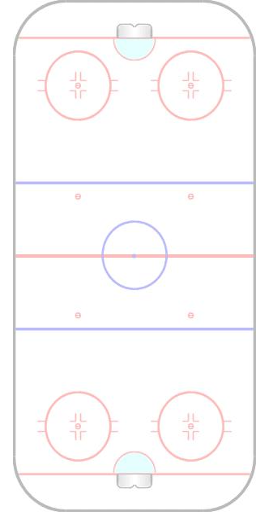
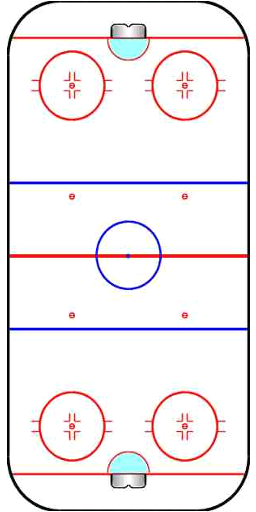
Changed texture

Changed region(s): [[0.0, 0.0, 1.0, 1.0]]

diff --git a/cube.h b/cube.h
@@ -12,14 +12,14 @@ const int num_vertices = 16;
 
 GLfloat vertices[] = {
 //rink
-	 0.00f,  0.00f, -2.0f,  //0      
-	 2.00f,  0.00f, -2.0f,  //1       
-	 0.00f,  0.25f, -2.0f,  //2     Top Left	0,1
-	 2.00f,  0.25f, -2.0f,  //3     Top Right	1,1
-	 0.00f,  0.00f,  2.0f,  //4     
-	 2.00f,  0.00f,  2.0f,  //5       
-	 0.00f,  0.25f,  2.0f,  //6     Bot Left	0,0
-	 2.00f,  0.25f,  2.0f,  //7     Bot Right	1,0
+	 0.00f,  0.00f, -2.0f,  //0 bbl    (Key:bottom/top.back/front.left/right)  
+	 2.00f,  0.00f, -2.0f,  //1 bbr      
+	 0.00f,  0.25f, -2.0f,  //2 tbr    Top Left	0,1
+	 2.00f,  0.25f, -2.0f,  //3 tbl    Top Right	1,1
+	 0.00f,  0.00f,  2.0f,  //4 bfl    
+	 2.00f,  0.00f,  2.0f,  //5 bfr      
+	 0.00f,  0.25f,  2.0f,  //6 tfl    Bot Left	0,0
+	 2.00f,  0.25f,  2.0f,  //7 tfr    Bot Right	1,0
 
 //puck
 	 1.00f,  0.25f,  0.0f,         
@@ -124,14 +124,14 @@ GLuint indices[] = {
 GLfloat textures[] = {
 	//rink
 	
-	0.0,0.0,//0
-	0.0,0.0,//1
-	0.0,1.0,//2
-	1.0,1.0,//3
+	0.0,1.0,//0
+	1.0,1.0,//1
+	0.0,1.0,//2 0,1 top left
+	1.0,1.0,//3 1,1 top right
 	0.0,0.0,//4
-	0.0,0.0,//5
-	0.0,0.0,//6
-	1.0,0.0,//7
+	1.0,0.0,//5
+	0.0,0.0,//6 0,0 bot left
+	1.0,0.0,//7 1,0 bot right
 	//puck
 	0.0,0.0,
 	0.0,0.0,
